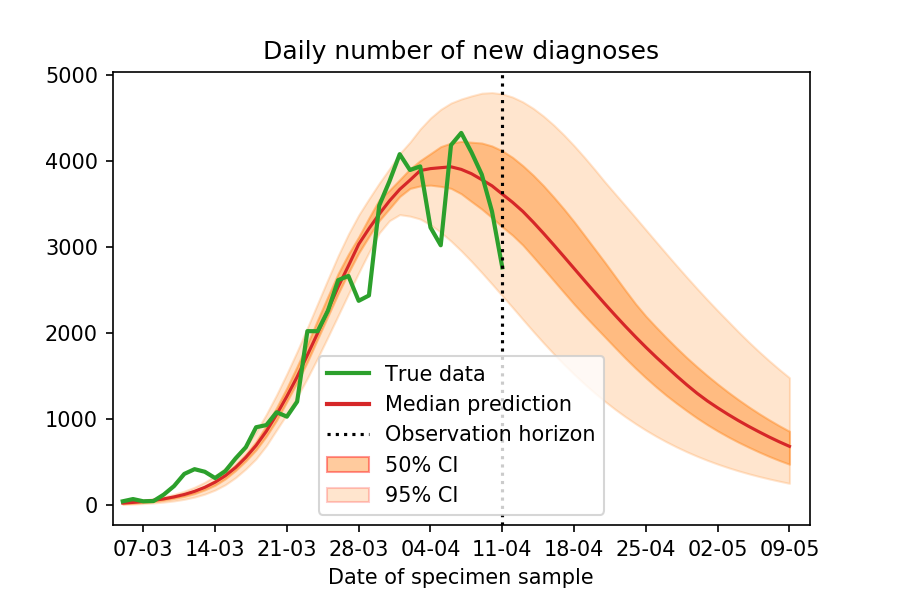
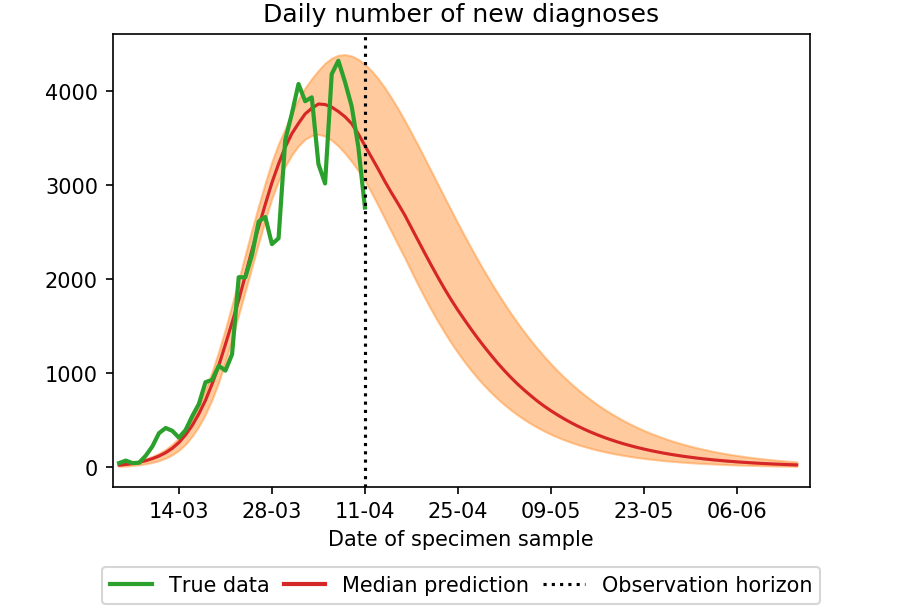
Update figures and uncertainty

diff --git a/docsource/Prediction.rst b/docsource/Prediction.rst
@@ -7,6 +7,7 @@ Predictions for England (Updated on 11th April)
 Number of infected
 ~~~~~~~~~~~~~~~~~~~~~~~~~~~~~~~~
 Prediction of the cumulative total number of infected people who are diagnosed (most of them needing hospitalisation), and the daily number of new diagnoses.
+Shaded area indicates :ref:`uncertainty <3. How should I interpret the uncertainty predicted by this model?>`, specifically 95% High Posterior Density (HPD) region.
 
 .. content-tabs::
 
@@ -24,6 +25,7 @@ Prediction of the cumulative total number of infected people who are diagnosed (
 Number of deaths in hospital
 ~~~~~~~~~~~~~~~~~~~~~~~~~~~~~~~~~~~~~~
 Prediction of the number of deaths in hospital per day and total number of deaths. Note that deaths are considered by the date they actually happened, not by reporting date; this is why we are not able to use data more recent than 5 days ago, as reporting takes some time.
+Shaded area indicates :ref:`uncertainty <3. How should I interpret the uncertainty predicted by this model?>`, specifically 95% High Posterior Density (HPD) region.
 
 .. content-tabs::
 
@@ -44,6 +46,7 @@ Prediction of the number of deaths in hospital per day and total number of death
 Deaths in hospital in each age group
 ~~~~~~~~~~~~~~~~~~~~~~~~~~~~~~~~~~~~~~~~~~~~~~~~~~~
 Prediction of total number of deaths in the 5 age groups: :math:`0-19,   20-39, 40-59, 60-79, 80+`, versus the day the deaths actually happened.
+Shaded area indicates :ref:`uncertainty <3. How should I interpret the uncertainty predicted by this model?>`, specifically 95% High Posterior Density (HPD) region.
 
 .. content-tabs::
 
